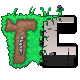
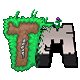
More server fixes, now use RandomSource instead of Random for everything.
Black Belt crash fixed with some other mods, particles also slightly more noticeable.

No longer include Cloth Config to save space (most people should have that already anyway).

Updated ModMenu icon to the new TerraMine icon.

diff --git a/src/main/java/terramine/common/world/CorruptionPitCarver.java b/src/main/java/terramine/common/world/CorruptionPitCarver.java
@@ -14,7 +14,6 @@ import net.minecraft.world.level.levelgen.carver.CarvingContext;
 import net.minecraft.world.level.levelgen.carver.WorldCarver;
 import org.jetbrains.annotations.NotNull;
 
-import java.util.Random;
 import java.util.function.Function;
 
 public class CorruptionPitCarver extends WorldCarver<CorruptionPitCarverConfigured> {
@@ -43,7 +42,7 @@ public class CorruptionPitCarver extends WorldCarver<CorruptionPitCarverConfigur
 
     private void doCarve(CarvingContext carvingContext, CorruptionPitCarverConfigured corruptionPitCarverConfiguration, ChunkAccess chunkAccess, Function<BlockPos, Holder<Biome>> function, long l, Aquifer aquifer, double d, double e, double f, float g, float h, float i, int j, int k, double m, CarvingMask carvingMask) {
         RandomSource random = RandomSource.create();
-        float[] fs = this.initWidthFactors(carvingContext, corruptionPitCarverConfiguration, (Random) random);
+        float[] fs = this.initWidthFactors(carvingContext, corruptionPitCarverConfiguration, random);
         float n = 0.0F;
         float o = 0.0F;
 
@@ -51,7 +50,7 @@ public class CorruptionPitCarver extends WorldCarver<CorruptionPitCarverConfigur
             double q = 1.5 + (double)(Mth.sin((float)p * 3.1415927F / (float)k) * g);
             double r = q * m;
             q *= corruptionPitCarverConfiguration.shape.horizontalRadiusFactor.sample(random);
-            r = this.updateVerticalRadius(corruptionPitCarverConfiguration, (Random) random, r, (float)k, (float)p);
+            r = this.updateVerticalRadius(corruptionPitCarverConfiguration, random, r, (float)k, (float)p);
             float s = Mth.cos(i);
             float t = Mth.sin(i);
             d += Mth.cos(h) * s;
@@ -77,7 +76,7 @@ public class CorruptionPitCarver extends WorldCarver<CorruptionPitCarverConfigur
 
     }
 
-    private float[] initWidthFactors(CarvingContext carvingContext, CorruptionPitCarverConfigured corruptionPitCarverConfiguration, Random random) {
+    private float[] initWidthFactors(CarvingContext carvingContext, CorruptionPitCarverConfigured corruptionPitCarverConfiguration, RandomSource random) {
         int i = carvingContext.getGenDepth();
         float[] fs = new float[i];
         float f = 1.0F;
@@ -93,10 +92,10 @@ public class CorruptionPitCarver extends WorldCarver<CorruptionPitCarverConfigur
         return fs;
     }
 
-    private double updateVerticalRadius(CorruptionPitCarverConfigured corruptionPitCarverConfiguration, Random random, double d, float f, float g) {
+    private double updateVerticalRadius(CorruptionPitCarverConfigured corruptionPitCarverConfiguration, RandomSource random, double d, float f, float g) {
         float h = 1.0F - Mth.abs(0.5F - g / f) * 2.0F;
         float i = corruptionPitCarverConfiguration.shape.verticalRadiusDefaultFactor + corruptionPitCarverConfiguration.shape.verticalRadiusCenterFactor * h;
-        return (double)i * d * (double)Mth.randomBetween((RandomSource) random, 0.75F, 1.0F);
+        return (double)i * d * (double)Mth.randomBetween(random, 0.75F, 1.0F);
     }
 
     private boolean shouldSkip(CarvingContext carvingContext, float[] fs, double d, double e, double f, int i) {

diff --git a/src/main/java/terramine/mixin/item/blackbelt/LivingEntityMixin.java b/src/main/java/terramine/mixin/item/blackbelt/LivingEntityMixin.java
@@ -2,32 +2,59 @@ package terramine.mixin.item.blackbelt;
 
 import net.minecraft.core.Vec3i;
 import net.minecraft.core.particles.ParticleTypes;
-import net.minecraft.server.level.ServerPlayer;
+import net.minecraft.server.level.ServerLevel;
+import net.minecraft.world.damagesource.DamageSource;
 import net.minecraft.world.entity.LivingEntity;
-import net.minecraft.world.entity.player.Player;
 import net.minecraft.world.phys.Vec3;
 import org.spongepowered.asm.mixin.Mixin;
+import org.spongepowered.asm.mixin.Unique;
 import org.spongepowered.asm.mixin.injection.At;
+import org.spongepowered.asm.mixin.injection.Inject;
 import org.spongepowered.asm.mixin.injection.ModifyVariable;
+import org.spongepowered.asm.mixin.injection.callback.CallbackInfoReturnable;
 import terramine.common.init.ModItems;
 import terramine.common.trinkets.TrinketsHelper;
 
 @Mixin(LivingEntity.class)
 public abstract class LivingEntityMixin {
 
-	@ModifyVariable(method = "hurt", at = @At("STORE"), ordinal = 0, argsOnly = true)
+	@Unique
+	private DamageSource damageSource;
+
+	@Unique
+	private boolean dodged;
+
+	@Inject(method = "hurt", at = @At("HEAD"))
+	private void accessDamageSource(DamageSource damageSource, float f, CallbackInfoReturnable<Boolean> cir) {
+		this.damageSource = damageSource;
+	}
+
+	@ModifyVariable(method = "hurt", at = @At("HEAD"), ordinal = 0, argsOnly = true)
 	private float dodgeAttack(float f) {
-		Player self = (Player) (Object) this;
-		Vec3 pos = self.position();
-		Vec3i motion = self.getMotionDirection().getNormal();
+		LivingEntity self = (LivingEntity) (Object) this;
 		if (TrinketsHelper.isEquipped(ModItems.BLACK_BELT, self) || TrinketsHelper.isEquipped(ModItems.MASTER_NINJA_GEAR, self)) {
-			if (self.getRandom().nextInt(101) <= 10) {
-				f = 0;
-				if (!self.isLocalPlayer()) {
-					((ServerPlayer) self).getLevel().sendParticles(ParticleTypes.POOF, pos.x(), pos.y(), pos.z(), 1, motion.getX() * -1.0D, -1.0D, motion.getZ() * -1.0D, 0.15);
+			if (damageSource != DamageSource.FALL && self.getRandom().nextInt(100) <= 10) {
+				f = 0f;
+				dodged = true;
+				if (!self.level.isClientSide()) {
+					Vec3 pos = self.position();
+					Vec3i motion = self.getMotionDirection().getNormal();
+					((ServerLevel) self.getLevel()).sendParticles(ParticleTypes.POOF, pos.x(), pos.y(), pos.z(), 3, motion.getX() * -1.0D, -1.0D, motion.getZ() * -1.0D, 0.15);
 				}
 			}
 		}
 		return f;
+	}
+
+	@ModifyVariable(method = "knockback", at = @At("HEAD"), ordinal = 0, argsOnly = true)
+	private double removeKnockback(double d) {
+		LivingEntity self = (LivingEntity) (Object) this;
+		if (TrinketsHelper.isEquipped(ModItems.BLACK_BELT, self) || TrinketsHelper.isEquipped(ModItems.MASTER_NINJA_GEAR, self)) {
+			if (dodged) {
+				d = 0f;
+				dodged = false;
+			}
+		}
+		return d;
 	}
 }

diff --git a/src/main/java/terramine/common/item/curio/feet/LightningBootsItem.java b/src/main/java/terramine/common/item/curio/feet/LightningBootsItem.java
@@ -4,6 +4,7 @@ import dev.emi.stepheightentityattribute.StepHeightEntityAttributeMain;
 import dev.emi.trinkets.api.SlotReference;
 import net.minecraft.core.particles.ParticleTypes;
 import net.minecraft.server.level.ServerPlayer;
+import net.minecraft.util.RandomSource;
 import net.minecraft.world.entity.LivingEntity;
 import net.minecraft.world.entity.ai.attributes.AttributeInstance;
 import net.minecraft.world.entity.ai.attributes.AttributeModifier;
@@ -19,7 +20,6 @@ import terramine.common.item.curio.TrinketTerrariaItem;
 import terramine.common.trinkets.TrinketsHelper;
 import terramine.common.utility.RocketBootHelper;
 
-import java.util.Random;
 import java.util.UUID;
 
 public class LightningBootsItem extends TrinketTerrariaItem {
@@ -30,7 +30,7 @@ public class LightningBootsItem extends TrinketTerrariaItem {
 			"terramine:lightning_boots_movement_speed_walk", 0.08, AttributeModifier.Operation.MULTIPLY_TOTAL);
 	public static final AttributeModifier STEP_HEIGHT_MODIFIER = new AttributeModifier(UUID.fromString("7e97cede-a343-411f-b465-14cdf6df3666"),
 			"terramine:lightning_boots_step_height", .5, AttributeModifier.Operation.ADDITION);
-	private static final Random RANDOM = new Random();
+	private static final RandomSource RANDOM = RandomSource.create();
 	public RocketBootHelper rocketHelper = new RocketBootHelper();
 	public double speed = 0.08D;
 

diff --git a/src/main/java/terramine/common/item/curio/feet/SpectreBootsItem.java b/src/main/java/terramine/common/item/curio/feet/SpectreBootsItem.java
@@ -4,6 +4,7 @@ import dev.emi.stepheightentityattribute.StepHeightEntityAttributeMain;
 import dev.emi.trinkets.api.SlotReference;
 import net.minecraft.core.particles.ParticleTypes;
 import net.minecraft.server.level.ServerPlayer;
+import net.minecraft.util.RandomSource;
 import net.minecraft.world.entity.LivingEntity;
 import net.minecraft.world.entity.ai.attributes.AttributeInstance;
 import net.minecraft.world.entity.ai.attributes.AttributeModifier;
@@ -19,7 +20,6 @@ import terramine.common.item.curio.TrinketTerrariaItem;
 import terramine.common.trinkets.TrinketsHelper;
 import terramine.common.utility.RocketBootHelper;
 
-import java.util.Random;
 import java.util.UUID;
 
 public class SpectreBootsItem extends TrinketTerrariaItem {
@@ -28,7 +28,7 @@ public class SpectreBootsItem extends TrinketTerrariaItem {
 			"terramine:spectre_boots_movement_speed", 0.2, AttributeModifier.Operation.MULTIPLY_TOTAL);
 	public static final AttributeModifier STEP_HEIGHT_MODIFIER = new AttributeModifier(UUID.fromString("7e97cede-a343-411f-b465-14cdf6df3666"),
 			"terramine:spectre_boots_step_height", .5, AttributeModifier.Operation.ADDITION);
-	private static final Random RANDOM = new Random();
+	private static final RandomSource RANDOM = RandomSource.create();
 	public RocketBootHelper rocketHelper = new RocketBootHelper();
 	public double speed = 0.08D;
 

diff --git a/src/main/java/terramine/common/item/curio/feet/RunningShoesItem.java b/src/main/java/terramine/common/item/curio/feet/RunningShoesItem.java
@@ -5,6 +5,7 @@ import dev.emi.trinkets.api.SlotReference;
 import net.minecraft.client.Minecraft;
 import net.minecraft.core.particles.ParticleTypes;
 import net.minecraft.server.level.ServerPlayer;
+import net.minecraft.util.RandomSource;
 import net.minecraft.world.entity.LivingEntity;
 import net.minecraft.world.entity.ai.attributes.AttributeInstance;
 import net.minecraft.world.entity.ai.attributes.AttributeModifier;
@@ -14,7 +15,6 @@ import net.minecraft.world.item.ItemStack;
 import terramine.TerraMine;
 import terramine.common.item.curio.TrinketTerrariaItem;
 
-import java.util.Random;
 import java.util.UUID;
 
 public class RunningShoesItem extends TrinketTerrariaItem {
@@ -23,7 +23,7 @@ public class RunningShoesItem extends TrinketTerrariaItem {
 			"terramine:running_shoes_movement_speed", 0.2, AttributeModifier.Operation.MULTIPLY_TOTAL);
 	public static final AttributeModifier STEP_HEIGHT_MODIFIER = new AttributeModifier(UUID.fromString("7e97cede-a343-411f-b465-14cdf6df3666"),
 			"terramine:running_shoes_step_height", .5, AttributeModifier.Operation.ADDITION);
-	private static final Random RANDOM = new Random();
+	private static final RandomSource RANDOM = RandomSource.create();
 	@Override
 	public void curioTick(LivingEntity player, ItemStack stack) {
 		if (player.isSprinting() && player.isOnGround() && !player.isCrouching())

diff --git a/src/main/java/terramine/common/item/curio/feet/TerrasparkBootsItem.java b/src/main/java/terramine/common/item/curio/feet/TerrasparkBootsItem.java
@@ -6,6 +6,7 @@ import dev.emi.trinkets.api.SlotReference;
 import net.minecraft.core.particles.ParticleTypes;
 import net.minecraft.server.level.ServerPlayer;
 import net.minecraft.tags.FluidTags;
+import net.minecraft.util.RandomSource;
 import net.minecraft.world.entity.LivingEntity;
 import net.minecraft.world.entity.ai.attributes.AttributeInstance;
 import net.minecraft.world.entity.ai.attributes.AttributeModifier;
@@ -23,7 +24,6 @@ import terramine.common.item.curio.TrinketTerrariaItem;
 import terramine.common.trinkets.TrinketsHelper;
 import terramine.common.utility.RocketBootHelper;
 
-import java.util.Random;
 import java.util.UUID;
 
 public class TerrasparkBootsItem extends TrinketTerrariaItem {
@@ -34,7 +34,7 @@ public class TerrasparkBootsItem extends TrinketTerrariaItem {
 			"terramine:terraspark_boots_movement_speed_walk", 0.08, AttributeModifier.Operation.MULTIPLY_TOTAL);
 	public static final AttributeModifier STEP_HEIGHT_MODIFIER = new AttributeModifier(UUID.fromString("7e97cede-a343-411f-b465-14cdf6df3666"),
 			"terramine:terraspark_boots_step_height", .5, AttributeModifier.Operation.ADDITION);
-	private static final Random RANDOM = new Random();
+	private static final RandomSource RANDOM = RandomSource.create();
 	public RocketBootHelper rocketHelper = new RocketBootHelper();
 	public double speed = 0.08D;
 

diff --git a/src/main/java/terramine/common/item/curio/feet/FrostsparkBootsItem.java b/src/main/java/terramine/common/item/curio/feet/FrostsparkBootsItem.java
@@ -8,6 +8,7 @@ import net.minecraft.client.Options;
 import net.minecraft.core.particles.ParticleTypes;
 import net.minecraft.server.level.ServerPlayer;
 import net.minecraft.sounds.SoundSource;
+import net.minecraft.util.RandomSource;
 import net.minecraft.world.entity.LivingEntity;
 import net.minecraft.world.entity.ai.attributes.AttributeInstance;
 import net.minecraft.world.entity.ai.attributes.AttributeModifier;
@@ -23,7 +24,6 @@ import terramine.common.item.curio.TrinketTerrariaItem;
 import terramine.common.trinkets.TrinketsHelper;
 import terramine.common.utility.RocketBootHelper;
 
-import java.util.Random;
 import java.util.UUID;
 
 public class FrostsparkBootsItem extends TrinketTerrariaItem {
@@ -34,7 +34,7 @@ public class FrostsparkBootsItem extends TrinketTerrariaItem {
 			"terramine:frostspark_boots_movement_speed_walk", 0.08, AttributeModifier.Operation.MULTIPLY_TOTAL);
 	public static final AttributeModifier STEP_HEIGHT_MODIFIER = new AttributeModifier(UUID.fromString("7e97cede-a343-411f-b465-14cdf6df3666"),
 			"terramine:frostspark_boots_step_height", .5, AttributeModifier.Operation.ADDITION);
-	private static final Random RANDOM = new Random();
+	private static final RandomSource RANDOM = RandomSource.create();
 	public RocketBootHelper rocketHelper = new RocketBootHelper();
 	public double speed = 0.08D;
 

diff --git a/src/main/java/terramine/common/item/curio/feet/FairyBootsItem.java b/src/main/java/terramine/common/item/curio/feet/FairyBootsItem.java
@@ -5,6 +5,7 @@ import dev.emi.trinkets.api.SlotReference;
 import net.minecraft.core.BlockPos;
 import net.minecraft.core.particles.ParticleTypes;
 import net.minecraft.server.level.ServerPlayer;
+import net.minecraft.util.RandomSource;
 import net.minecraft.world.entity.LivingEntity;
 import net.minecraft.world.entity.ai.attributes.AttributeInstance;
 import net.minecraft.world.entity.ai.attributes.AttributeModifier;
@@ -23,7 +24,6 @@ import terramine.common.network.packet.BoneMealPacket;
 import terramine.common.trinkets.TrinketsHelper;
 import terramine.common.utility.RocketBootHelper;
 
-import java.util.Random;
 import java.util.UUID;
 
 public class FairyBootsItem extends TrinketTerrariaItem {
@@ -32,7 +32,7 @@ public class FairyBootsItem extends TrinketTerrariaItem {
 			"terramine:spectre_boots_movement_speed", 0.2, AttributeModifier.Operation.MULTIPLY_TOTAL);
 	public static final AttributeModifier STEP_HEIGHT_MODIFIER = new AttributeModifier(UUID.fromString("7e97cede-a343-411f-b465-14cdf6df3666"),
 			"terramine:spectre_boots_step_height", .5, AttributeModifier.Operation.ADDITION);
-	private static final Random RANDOM = new Random();
+	private static final RandomSource RANDOM = RandomSource.create();
 	public RocketBootHelper rocketHelper = new RocketBootHelper();
 	public double speed = 0.08D;
 

diff --git a/src/main/java/terramine/mixin/world/WorldGenSettingsMixin.java b/src/main/java/terramine/mixin/world/WorldGenSettingsMixin.java
@@ -1,24 +1,14 @@
 package terramine.mixin.world;
 
 import net.minecraft.core.RegistryAccess;
-import net.minecraft.server.dedicated.DedicatedServerProperties;
 import net.minecraft.util.RandomSource;
-import net.minecraft.world.level.Level;
 import net.minecraft.world.level.chunk.ChunkGenerator;
 import net.minecraft.world.level.levelgen.WorldGenSettings;
-import org.apache.commons.lang3.StringUtils;
 import org.spongepowered.asm.mixin.Mixin;
-import org.spongepowered.asm.mixin.Shadow;
 import org.spongepowered.asm.mixin.Unique;
 import org.spongepowered.asm.mixin.injection.At;
 import org.spongepowered.asm.mixin.injection.Inject;
 import org.spongepowered.asm.mixin.injection.callback.CallbackInfoReturnable;
-import terramine.TerraMine;
-import terramine.common.components.SyncedBooleanComponent;
-import terramine.common.init.ModComponents;
-
-import java.util.OptionalLong;
-import java.util.Random;
 
 @Mixin(WorldGenSettings.class)
 public class WorldGenSettingsMixin {

diff --git a/src/main/java/terramine/common/utility/RocketBootHelper.java b/src/main/java/terramine/common/utility/RocketBootHelper.java
@@ -6,6 +6,7 @@ import net.minecraft.core.particles.SimpleParticleType;
 import net.minecraft.server.level.ServerPlayer;
 import net.minecraft.sounds.SoundEvent;
 import net.minecraft.sounds.SoundSource;
+import net.minecraft.util.RandomSource;
 import net.minecraft.world.entity.LivingEntity;
 import net.minecraft.world.entity.player.Player;
 import net.minecraft.world.phys.Vec3;
@@ -13,10 +14,8 @@ import terramine.common.init.ModComponents;
 import terramine.common.init.ModItems;
 import terramine.common.trinkets.TrinketsHelper;
 
-import java.util.Random;
-
 public class RocketBootHelper {
-    private static final Random RANDOM = new Random();
+    private static final RandomSource RANDOM = RandomSource.create();
     private SimpleParticleType particle1;
     private SimpleParticleType particle2;
     private SoundEvent sound;

diff --git a/src/main/java/terramine/common/item/magic/ManaCrystalItem.java b/src/main/java/terramine/common/item/magic/ManaCrystalItem.java
@@ -4,6 +4,7 @@ import net.minecraft.server.level.ServerPlayer;
 import net.minecraft.sounds.SoundSource;
 import net.minecraft.stats.Stats;
 import net.minecraft.advancements.CriteriaTriggers;
+import net.minecraft.util.RandomSource;
 import net.minecraft.world.InteractionHand;
 import net.minecraft.world.InteractionResultHolder;
 import net.minecraft.world.entity.LivingEntity;
@@ -15,11 +16,9 @@ import terramine.common.init.ModComponents;
 import terramine.common.init.ModSoundEvents;
 import terramine.common.item.TerrariaItemConfigurable;
 
-import java.util.Random;
-
 public class ManaCrystalItem extends TerrariaItemConfigurable {
 
-    Random rand = new Random();
+    RandomSource rand = RandomSource.create();
 
     public ManaCrystalItem(Properties properties) {
         super(properties);

diff --git a/src/main/java/terramine/common/utility/MagicMissileHelper.java b/src/main/java/terramine/common/utility/MagicMissileHelper.java
@@ -2,6 +2,7 @@ package terramine.common.utility;
 
 import net.minecraft.nbt.CompoundTag;
 import net.minecraft.sounds.SoundSource;
+import net.minecraft.util.RandomSource;
 import net.minecraft.world.damagesource.DamageSource;
 import net.minecraft.world.entity.EntityType;
 import net.minecraft.world.entity.LivingEntity;
@@ -19,11 +20,9 @@ import terramine.common.init.ModItems;
 import terramine.common.init.ModSoundEvents;
 import terramine.common.trinkets.TrinketsHelper;
 
-import java.util.Random;
-
 public class MagicMissileHelper extends AbstractArrow {
 
-    private final Random rand = new Random();
+    private final RandomSource rand = RandomSource.create();
     private Item wandItem;
     private float damageIncrease;
     private float speed;
